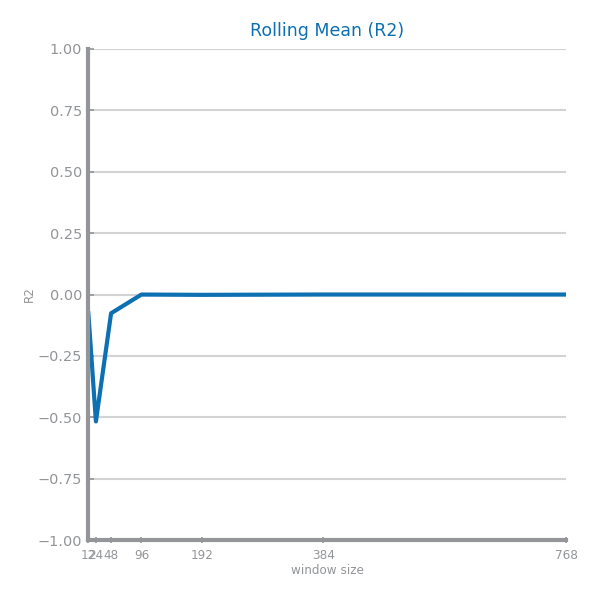
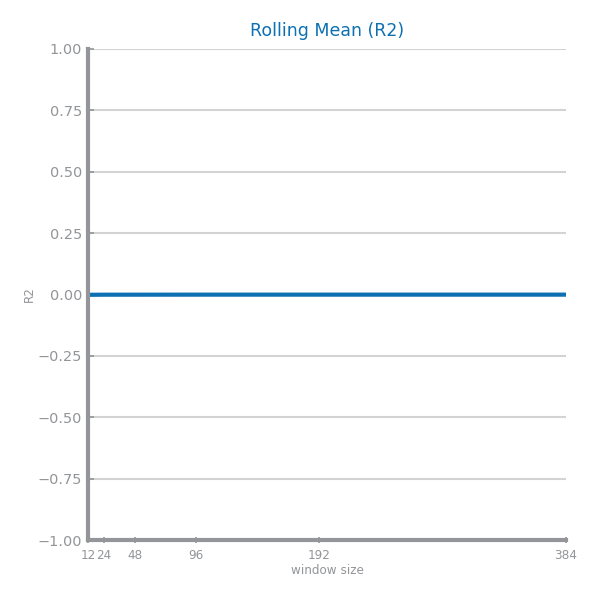
fix: a bug in rolling mean. updated charts

diff --git a/forecasting/models/DS_LSTM.py b/forecasting/models/DS_LSTM.py
@@ -1,47 +1,47 @@
-# from torch import no_grad, tensor
-# from torch.nn import LSTM, Linear, Module, MSELoss
-# from torch.optim import Adam
-# from torch.utils.data import DataLoader, TensorDataset
-#
-#
-# def prepare_dataset_for_lstm(series, seq_length: int = 4):
-#     setX: list = []
-#     setY: list = []
-#     for i in range(len(series) - seq_length):
-#         past = series[i: i + seq_length]
-#         future = series[i + 1: i + seq_length + 1]
-#         setX.append(past)
-#         setY.append(future)
-#     return tensor(setX), tensor(setY)
-#
-#
-# class DS_LSTM(Module):
-#     def __init__(self, train, input_size: int = 1, hidden_size: int = 50, num_layers: int = 1, length: int = 4):
-#         super().__init__()
-#         self.lstm = LSTM(input_size=input_size, hidden_size=hidden_size, num_layers=num_layers, batch_first=True)
-#         self.linear = Linear(hidden_size, 1)
-#         self.optimizer = Adam(self.parameters())
-#         self.loss_fn = MSELoss()
-#
-#         trnX, trnY = prepare_dataset_for_lstm(train, seq_length=length)
-#         self.loader = DataLoader(TensorDataset(trnX, trnY), shuffle=True, batch_size=len(train) // 10)
-#
-#     def forward(self, x):
-#         x, _ = self.lstm(x)
-#         x = self.linear(x)
-#         return x
-#
-#     def fit(self):
-#         self.train()
-#         for batchX, batchY in self.loader:
-#             y_pred = self(batchX)
-#             loss = self.loss_fn(y_pred, batchY)
-#             self.optimizer.zero_grad()
-#             loss.backward()
-#             self.optimizer.step()
-#         return loss
-#
-#     def predict(self, X):
-#         with no_grad():
-#             y_pred = self(X)
-#         return y_pred[:, -1, :]
+from torch import no_grad, tensor
+from torch.nn import LSTM, Linear, Module, MSELoss
+from torch.optim import Adam
+from torch.utils.data import DataLoader, TensorDataset
+
+
+def prepare_dataset_for_lstm(series, seq_length: int = 4):
+    setX: list = []
+    setY: list = []
+    for i in range(len(series) - seq_length):
+        past = series[i: i + seq_length]
+        future = series[i + 1: i + seq_length + 1]
+        setX.append(past)
+        setY.append(future)
+    return tensor(setX), tensor(setY)
+
+
+class DS_LSTM(Module):
+    def __init__(self, train, input_size: int = 1, hidden_size: int = 50, num_layers: int = 1, length: int = 4):
+        super().__init__()
+        self.lstm = LSTM(input_size=input_size, hidden_size=hidden_size, num_layers=num_layers, batch_first=True)
+        self.linear = Linear(hidden_size, 1)
+        self.optimizer = Adam(self.parameters())
+        self.loss_fn = MSELoss()
+
+        trnX, trnY = prepare_dataset_for_lstm(train, seq_length=length)
+        self.loader = DataLoader(TensorDataset(trnX, trnY), shuffle=True, batch_size=len(train) // 10)
+
+    def forward(self, x):
+        x, _ = self.lstm(x)
+        x = self.linear(x)
+        return x
+
+    def fit(self):
+        self.train()
+        for batchX, batchY in self.loader:
+            y_pred = self(batchX)
+            loss = self.loss_fn(y_pred, batchY)
+            self.optimizer.zero_grad()
+            loss.backward()
+            self.optimizer.step()
+        return loss
+
+    def predict(self, X):
+        with no_grad():
+            y_pred = self(X)
+        return y_pred[:, -1, :]

diff --git a/forecasting/models/traffic/persistence.py b/forecasting/models/traffic/persistence.py
@@ -2,6 +2,7 @@ import matplotlib.pyplot as plt
 from pandas import read_csv, DataFrame, Series
 
 from forecasting.models.PersistenceOptimistRegressor import PersistenceOptimistRegressor
+from forecasting.models.PersistenceRealistRegressor import PersistenceRealistRegressor
 from utils.dslabs_functions import series_train_test_split, plot_forecasting_eval, plot_forecasting_series
 
 traffic_filename: str = "../../data/traffic/processed_data/forecast_traffic_second_diff.csv"
@@ -13,7 +14,9 @@ traffic_data: DataFrame = read_csv(traffic_filename, index_col=index_col, parse_
 series: Series = traffic_data[target]
 train, test = series_train_test_split(series, trn_pct=0.90)
 
-# ------
+# ------------------
+# Persistence Optimist Regressor
+# ------------------
 
 fr_mod = PersistenceOptimistRegressor()
 fr_mod.fit(train)
@@ -36,5 +39,33 @@ plot_forecasting_series(
 )
 plt.tight_layout()
 plt.savefig(f"images/{traffic_file_tag}_persistence_optim_forecast.png")
+plt.show()
+plt.clf()
+
+# ------------------
+# Persistence Realist Regressor
+# ------------------
+
+fr_mod = PersistenceRealistRegressor()
+fr_mod.fit(train)
+prd_trn: Series = fr_mod.predict(train)
+prd_tst: Series = fr_mod.predict(test)
+
+plot_forecasting_eval(train, test, prd_trn, prd_tst, title=f"{traffic_file_tag} - Persistence Realist")
+plt.tight_layout()
+plt.savefig(f"images/{traffic_file_tag}_persistence_real_eval.png")
+plt.show()
+plt.clf()
+
+plot_forecasting_series(
+    train,
+    test,
+    prd_tst,
+    title=f"{traffic_file_tag} - Persistence Realist",
+    xlabel=index_col,
+    ylabel=target,
+)
+plt.tight_layout()
+plt.savefig(f"images/{traffic_file_tag}_persistence_real_forecast.png")
 plt.show()
 plt.clf()

diff --git a/forecasting/models/covid/rolling_mean.py b/forecasting/models/covid/rolling_mean.py
@@ -4,7 +4,7 @@ from pandas import read_csv, DataFrame, Series
 from utils.dslabs_functions import series_train_test_split, HEIGHT, rolling_mean_study, plot_forecasting_eval, \
     plot_forecasting_series
 
-covid_filename: str = "../../data/covid/processed_data/forecast_covid_second_diff.csv"
+covid_filename: str = "../../data/covid/processed_data/forecast_covid_first_diff.csv"
 covid_file_tag: str = "covid"
 index_col: str = "date"
 target: str = "deaths"
@@ -16,7 +16,7 @@ train, test = series_train_test_split(series)
 measure: str = "R2"
 
 fig = plt.figure(figsize=(HEIGHT, HEIGHT))
-best_model, best_params = rolling_mean_study(train, test)  # FIXME: This is not working
+best_model, best_params = rolling_mean_study(train, test)
 plt.tight_layout()
 plt.savefig(f"images/{covid_file_tag}_rollingmean_{measure}_study.png")
 plt.show()
@@ -28,7 +28,7 @@ prd_tst: Series = best_model.predict(test)
 
 plot_forecasting_eval(train, test, prd_trn, prd_tst, title=f"{covid_file_tag} - Rolling Mean (win={params[0]})")
 plt.tight_layout()
-plt.savefig(f"images/{covid_file_tag}_rollingmean_{measure}_win{params[0]}_eval.png")
+plt.savefig(f"images/{covid_file_tag}_rollingmean_{measure}_best_win{params[0]}_eval.png")
 plt.show()
 plt.clf()
 

diff --git a/forecasting/models/traffic/rolling_mean.py b/forecasting/models/traffic/rolling_mean.py
@@ -16,7 +16,7 @@ train, test = series_train_test_split(series)
 measure: str = "R2"
 
 fig = plt.figure(figsize=(HEIGHT, HEIGHT))
-best_model, best_params = rolling_mean_study(train, test) # FIXME: This is not working
+best_model, best_params = rolling_mean_study(train, test)
 plt.tight_layout()
 plt.savefig(f"images/{traffic_file_tag}_rollingmean_{measure}_study.png")
 plt.show()
@@ -28,7 +28,7 @@ prd_tst: Series = best_model.predict(test)
 
 plot_forecasting_eval(train, test, prd_trn, prd_tst, title=f"{traffic_file_tag} - Rolling Mean (win={params[0]})")
 plt.tight_layout()
-plt.savefig(f"images/{traffic_file_tag}_rollingmean_{measure}_win{params[0]}_eval.png")
+plt.savefig(f"images/{traffic_file_tag}_rollingmean_{measure}_best_win{params[0]}_eval.png")
 plt.show()
 plt.clf()
 

diff --git a/forecasting/models/covid/persistence.py b/forecasting/models/covid/persistence.py
@@ -5,7 +5,7 @@ from forecasting.models.PersistenceOptimistRegressor import PersistenceOptimistR
 from forecasting.models.PersistenceRealistRegressor import PersistenceRealistRegressor
 from utils.dslabs_functions import series_train_test_split, plot_forecasting_eval, plot_forecasting_series
 
-covid_filename: str = "../../data/covid/processed_data/forecast_covid_second_diff.csv"
+covid_filename: str = "../../data/covid/processed_data/forecast_covid_first_diff.csv"
 covid_file_tag: str = "covid"
 index_col: str = "date"
 target: str = "deaths"

diff --git a/forecasting/models/covid/lstms.py b/forecasting/models/covid/lstms.py
@@ -4,7 +4,7 @@ from pandas import read_csv, DataFrame, Series
 from forecasting.models.DS_LSTM import DS_LSTM, prepare_dataset_for_lstm
 from utils.dslabs_functions import series_train_test_split, lstm_study, plot_forecasting_eval, plot_forecasting_series
 
-covid_filename: str = "../../data/covid/processed_data/forecast_covid_second_diff.csv"
+covid_filename: str = "../../data/covid/processed_data/forecast_covid_first_diff.csv"
 covid_file_tag: str = "covid"
 timecol: str = "date"
 target: str = "deaths"

diff --git a/utils/dslabs_functions.py b/utils/dslabs_functions.py
@@ -1067,7 +1067,8 @@ def scale_all_dataframe(data: DataFrame) -> DataFrame:
 
 def rolling_mean_study(train: Series, test: Series, measure: str = "R2"):
     # win_size = (3, 5, 10, 15, 20, 25, 30, 40, 50)
-    win_size = (12, 24, 48, 96, 192, 384, 768)
+    win_size = [size for size in (12, 24, 48, 96, 192, 384, 768) if size <= len(train)]
+
     flag = measure == "R2" or measure == "MAPE"
     best_model = None
     best_params: dict = {"name": "Rolling Mean", "metric": measure, "params": ()}

diff --git a/forecasting/models/covid/simple_average.py b/forecasting/models/covid/simple_average.py
@@ -4,7 +4,7 @@ from pandas import read_csv, DataFrame, Series
 from forecasting.models.SimpleAvgRegressor import SimpleAvgRegressor
 from utils.dslabs_functions import series_train_test_split, plot_forecasting_eval, plot_forecasting_series
 
-covid_filename: str = "../../data/covid/processed_data/forecast_covid_second_diff.csv"
+covid_filename: str = "../../data/covid/processed_data/forecast_covid_first_diff.csv"
 covid_file_tag: str = "covid"
 index_col: str = "date"
 target: str = "deaths"

diff --git a/forecasting/models/covid/arima.py b/forecasting/models/covid/arima.py
@@ -5,7 +5,7 @@ from statsmodels.tsa.arima.model import ARIMA
 from utils.dslabs_functions import series_train_test_split, HEIGHT, arima_study, plot_forecasting_eval, \
     plot_forecasting_series
 
-covid_filename: str = "../../data/covid/processed_data/forecast_covid_second_diff.csv"
+covid_filename: str = "../../data/covid/processed_data/forecast_covid_first_diff.csv"
 covid_file_tag: str = "covid"
 index_col: str = "date"
 target: str = "deaths"
